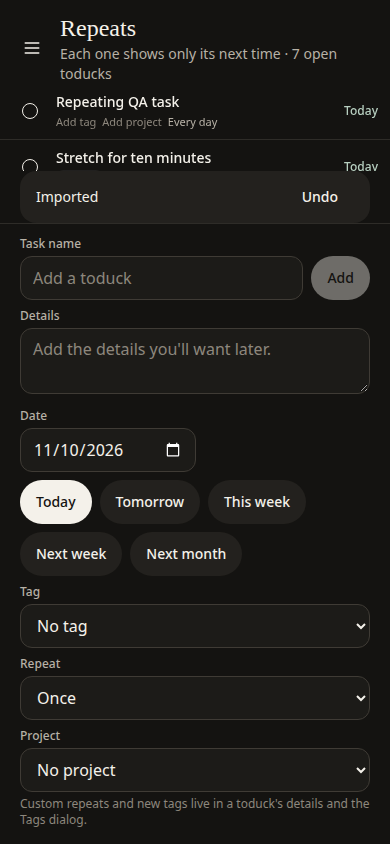
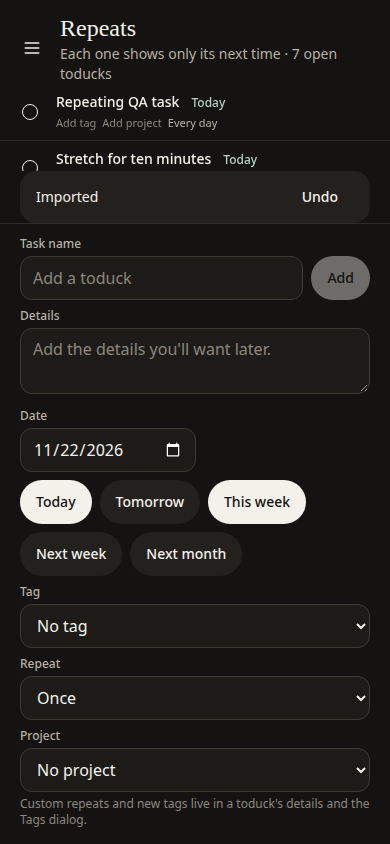
fix(web): keep task due dates close to task content (#104)
Move the per-row due-date label out of its far-right slot and into the
title row, immediately after the task title. The title button no longer
expands to the full row width (flex 0 1 auto, truncating), so a short
title leaves the date beside it instead of stranded at the row edge;
long titles still truncate and the date stays visible. The date picker
keeps its exact aria-label, value, and change behavior, with a slightly
larger padded hit area, and works the same in compact mode and in the
narrow workflow columns.

Adds an e2e test asserting the date sits on the same line just after
the title, not pinned to the row's right edge, at desktop and mobile
widths and in compact mode. QA screenshots regenerated by that run.

diff --git a/src/components/toduck/screen.tsx b/src/components/toduck/screen.tsx
@@ -618,9 +618,35 @@ function TaskRow({
           </span>
         </button>
         <div className="min-w-0 flex-1 py-0.5 text-left">
-          <button type="button" className="block w-full truncate text-left" onClick={onOpen} aria-label={`Details for ${task.title}`}>
-            <span className={`block truncate text-sm font-medium ${task.done ? "text-muted line-through" : "text-ink"}`}>{task.title}</span>
-          </button>
+          <div className="flex min-w-0 items-baseline gap-2">
+            <button
+              type="button"
+              className="min-w-0 flex-[0_1_auto] truncate text-left"
+              onClick={onOpen}
+              aria-label={`Details for ${task.title}`}
+            >
+              <span className={`block truncate text-sm font-medium ${task.done ? "text-muted line-through" : "text-ink"}`}>{task.title}</span>
+            </button>
+            <div className={`relative shrink-0 rounded px-1 py-0.5 text-xs font-medium tabular-nums whitespace-nowrap ${horizonClass(horizon)}`}>
+              <span aria-hidden="true">{formatWhen(when, today)}</span>
+              <input
+                type="date"
+                className="absolute inset-0 h-full w-full cursor-pointer opacity-0"
+                aria-label={`Change date for ${task.title}, currently ${formatWhen(when, today)}`}
+                value={when}
+                onClick={(event) => {
+                  try {
+                    event.currentTarget.showPicker();
+                  } catch {
+                    // Some browsers already open the picker from the click itself.
+                  }
+                }}
+                onChange={(event) => {
+                  if (event.target.value) moveTask(task.id, event.target.value);
+                }}
+              />
+            </div>
+          </div>
           <span className="mt-0.5 flex min-w-0 items-center gap-1.5">
             <button
               type="button"
@@ -660,25 +686,6 @@ function TaskRow({
           {!compact && notePreviewSafe(task.notes) ? (
             <span className="mt-0.5 hidden truncate text-xs text-faint md:block">{notePreviewSafe(task.notes)}</span>
           ) : null}
-        </div>
-        <div className={`relative shrink-0 pl-2 text-right text-xs font-medium tabular-nums whitespace-nowrap ${horizonClass(horizon)}`}>
-          <span aria-hidden="true">{formatWhen(when, today)}</span>
-          <input
-            type="date"
-            className="absolute inset-0 h-full w-full cursor-pointer opacity-0"
-            aria-label={`Change date for ${task.title}, currently ${formatWhen(when, today)}`}
-            value={when}
-            onClick={(event) => {
-              try {
-                event.currentTarget.showPicker();
-              } catch {
-                // Some browsers already open the picker from the click itself.
-              }
-            }}
-            onChange={(event) => {
-              if (event.target.value) moveTask(task.id, event.target.value);
-            }}
-          />
         </div>
       </div>
       {projectOpen ? (

diff --git a/e2e/toduck.spec.ts b/e2e/toduck.spec.ts
@@ -245,6 +245,39 @@ test("row controls: one-click date picker, category picker, and repeat checkbox 
   await expect(page.getByText("Daily quick task", { exact: true })).toHaveCount(0);
 });
 
+test("row date sits next to the task title, not at the far right", async ({ page }) => {
+  await page.getByLabel("New toduck").fill("Close date task");
+  await page.getByRole("button", { name: "Add", exact: true }).click();
+  const row = page.getByRole("listitem").filter({ hasText: "Close date task" });
+  await expect(row).toBeVisible();
+  const title = row.getByRole("button", { name: "Details for Close date task" });
+  const dateInput = row.getByLabel(/Change date for Close date task/);
+  await expect(dateInput).toBeVisible();
+
+  const expectDateBesideTitle = async () => {
+    const titleBox = await title.boundingBox();
+    const dateBox = await dateInput.boundingBox();
+    const rowBox = await row.boundingBox();
+    expect(titleBox).not.toBeNull();
+    expect(dateBox).not.toBeNull();
+    expect(rowBox).not.toBeNull();
+    // Same line, immediately after the title text, not overlapping it.
+    expect(Math.abs(dateBox!.y - titleBox!.y)).toBeLessThan(8);
+    const gap = dateBox!.x - (titleBox!.x + titleBox!.width);
+    expect(gap).toBeGreaterThanOrEqual(0);
+    expect(gap).toBeLessThan(24);
+    // And not pinned to the far right edge of the row.
+    expect(rowBox!.x + rowBox!.width - (dateBox!.x + dateBox!.width)).toBeGreaterThan(40);
+  };
+  await expectDateBesideTitle();
+
+  // Compact mode hides the notes preview, but the date stays beside the title.
+  await openSidebarIfNeeded(page);
+  await page.getByRole("button", { name: "Compact", exact: true }).click();
+  await closeSidebarIfOpen(page);
+  await expectDateBesideTitle();
+});
+
 test("composer quick dates set the new toduck's date", async ({ page }) => {
   const key = (date: Date) => {
     const y = date.getFullYear();
